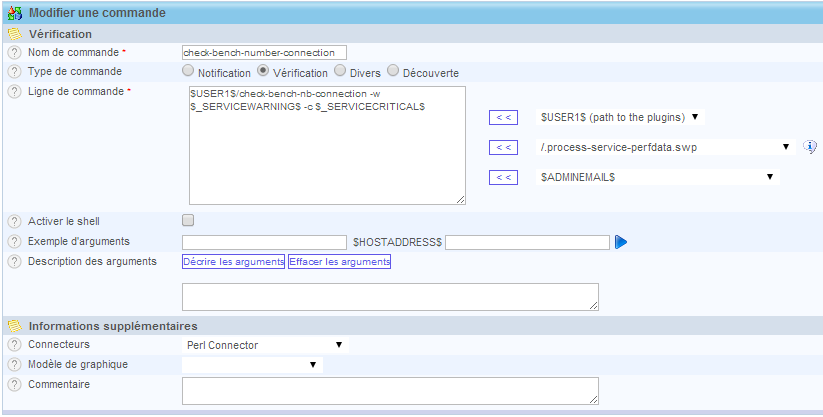
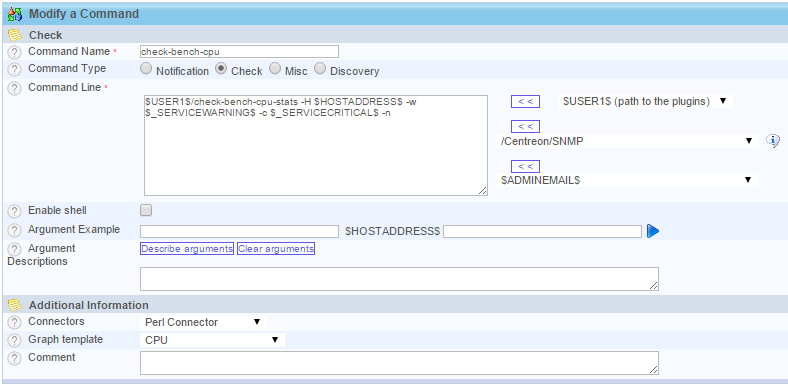
screenshots in EN, fix links in rst

diff --git a/08category.rst b/08category.rst
@@ -1,0 +1,46 @@
+==========
+Categories
+==========
+
+Categories are used to define ACLs on the hosts and the services. The aim is to be able to classify the hosts or the services within a category.
+
+Centreon 2.4 includes a new functionality called “Criticality”. As from version 2.5, the levels of criticality are linked to a category, they have become a type of category. A criticality level is an indicator for defining the criticality of a host or a service. The aim is to be able to handle the problems of hosts or services by order of priority. By this system, it is thus possible to filter the objects in the “Supervision” views by criticality.
+
+.. _hostcategory:
+
+***************
+Host categories
+***************
+
+To add a category of hosts:
+
+1.      Go into the menu: Configuration ==> Hosts
+2.      In the left menu, click on Categories
+3.      Click on Add
+
+.. image :: /images/guide_utilisateur/configuration/08hostcategory.png
+   :align: center
+ 
+*       The **Host Category Name** and **Alias** fields contain respectively the name and the alias of the category of host.
+*       The **Linked hosts** list allows us to add hosts to the category.
+*       If a host template is added to **Linked host template** list all the hosts which inherit from this Model belong to this category.
+*       The **Severity type** box signifies that the category of hosts has a criticality level.
+*       The **Level** and **Icon** fields define a criticality level and an associated icon respectively.
+*       The **Status** and **Comment** fields allow us to enable or disable the category of host and to comment on it.
+
+**********************
+Categories of services
+**********************
+
+To add a category of services:
+1.      Go into the menu: Configuration ==> Services
+2.      In the left menu, click on Categories
+3.      Click on Add
+ 
+*       The Name and Description fields define the name and the description of the category of service.
+*       If a Model of service belongs to Linked to models of services all the services belonging to this Model of service are in this category.
+*       The Is of criticality type box signifies that the category of service has a criticality level.
+*       The Level and icons fields define a criticality level and an associated icon respectively.
+*       The Status field allows us to enable or disable the category of services.
+Note: for more information refer to the associated chapter covering categories.
+

diff --git a/doc/en/user/configuration/04commands.rst b/doc/en/user/configuration/04commands.rst
@@ -13,7 +13,12 @@ There are three types of command:
 *       **Verification** commands are used by the schedulers to verify the status of a host or of a service.
 *       **Notification** commands are used by the schedulers to alert the contacts (via mail, SMS, etc.).
 *       **Miscellaneous** commands are used by the additional modules (to perform certain actions), by the scheduler for data processing, etc.
+
 All the commands can be configured in the menu: **Configuration ==> Commands**.
+
+.. image :: /images/user/configuration/04commandlist.png
+   :align: center
+
 
 **************** 
 Adding a command
@@ -23,12 +28,12 @@ Before adding a command:
 
 1.      In the left menu select the type of command that you want to add  (Verification, Notification or Miscellaneous).
 
-.. image :: /images/guide_utilisateur/configuration/04leftmenu.png
+.. image :: /images/user/configuration/04leftmenu.png
       :align: center
  
 2.      Click on Add
 
-.. image :: /images/guide_utilisateur/configuration/04command.png
+.. image :: /images/user/configuration/04command.png
       :align: center
  
 .. Note::
@@ -46,7 +51,7 @@ Configuration fields
         These fields serve to execute the command line defined above via the web interface by clicking on the blue arrow : |bluearrow|.
 *       The **Describe arguments** button serves to add  a description to arguments of the “$ARGn$” type. This description will be visible when using the command in a host or service form.
  
-.. image :: /images/guide_utilisateur/configuration/04linkbetweencommandandservices.png
+.. image :: /images/user/configuration/04linkbetweencommandandservices.png
       :align: center
 
 *       The **Clear arguments** button deletes the description of arguments defined

diff --git a/doc/en/user/configuration/05timeperiod.rst b/doc/en/user/configuration/05timeperiod.rst
@@ -41,7 +41,7 @@ Here are a few examples:
 *       24 hours a day and 7 days a week: 00:00-24:00 (to be applied on every day of the week).
 *       From 08h00 to 12h00 and from 14h00 to 18h45 (to be applied on weekdays only).
 
-.. image :: /images/guide_utilisateur/configuration/05timeperiod.png
+.. image :: /images/user/configuration/05timeperiod.png
       :align: center
 
 

diff --git a/doc/en/user/configuration/03services.rst b/doc/en/user/configuration/03services.rst
@@ -8,7 +8,7 @@ A service is a check point linked / attached to a host. E.g.: Percentage of part
 
 All additions of services are done in the menu: **Configuration ==> Services ==> Add**.
 
-.. image :: /images/guide_utilisateur/configuration/03addservice.png
+.. image :: /images/user/configuration/03addservice.png
       :align: center
 
 ****************************
